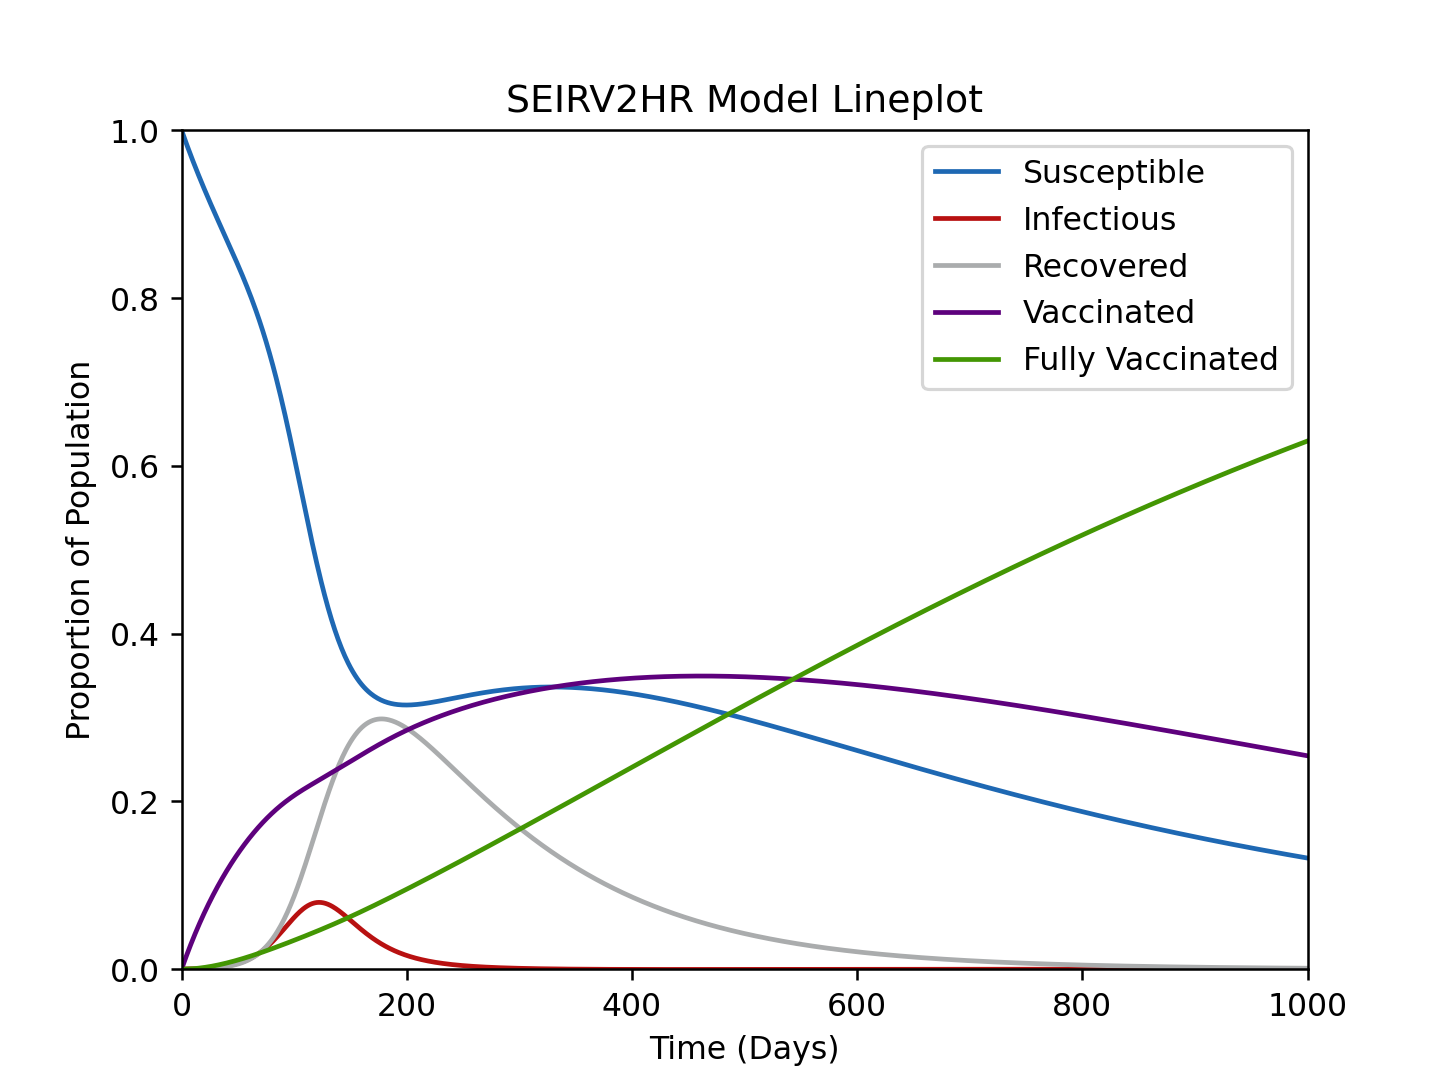
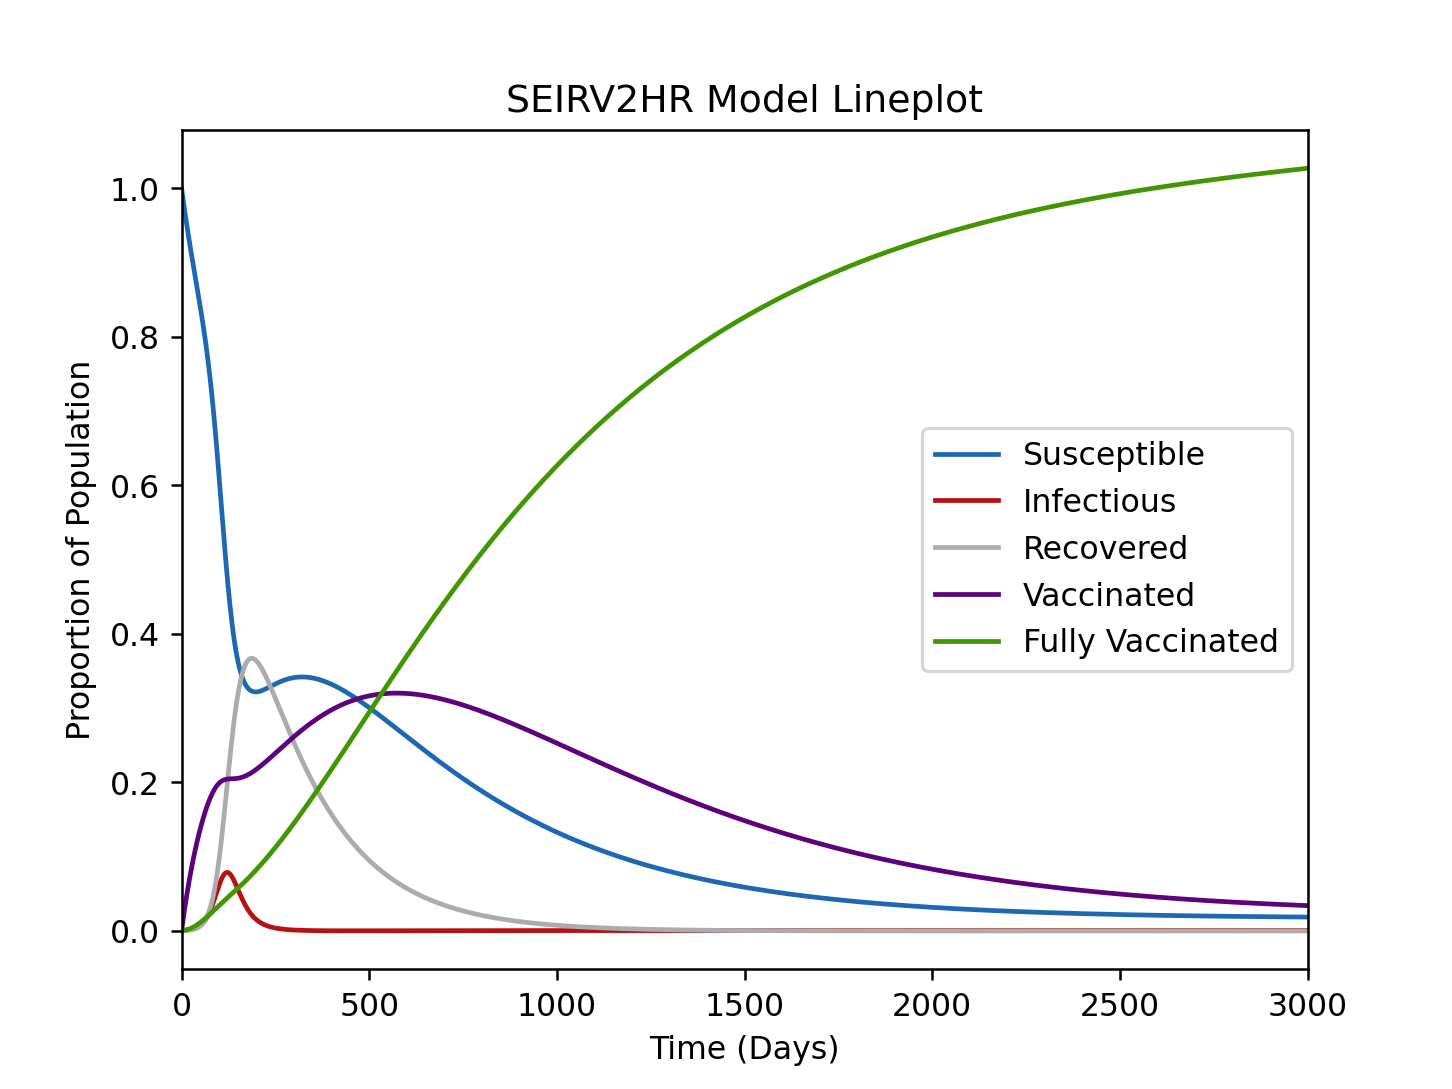
Big model finish

diff --git a/SEIRV2HR/SEIRV2HR_NumInt.py b/SEIRV2HR/SEIRV2HR_NumInt.py
@@ -5,9 +5,8 @@ import matplotlib.pyplot as plt
 class SEIRSV2_Model():
 
     def __init__(self):
-
         
-        self.TotalTime          = 1000 
+        self.TotalTime          = 3000 
         self.dt                 = 1
         self.Iterations         = int(self.TotalTime/self.dt)
         self.PopulationLR       = 0.9
@@ -67,44 +66,46 @@ class SEIRSV2_Model():
             dI = self.LatencyRate*E[n] - self.RecoveryRate*I[n] - self.DeathRateCOVID*I[n]
             dR = self.RecoveryRate*I[n] - self.ImmunityLossRate*R[n] - self.Vaccination1Rate*R[n] - self.DeathRate*R[n]
 
-            dV1 = self.Vaccination1Rate*(S[n] + R[n]) - self.Vaccination2Rate*V1[n] - NewInfectionsV1 + self.RecoveryRate*IV1[n] - self.DeathRate*V1[n]
+            dV1 = self.Vaccination1Rate*S[n] - self.Vaccination2Rate*V1[n] - NewInfectionsV1 - self.DeathRate*V1[n] + self.ImmunityLossRate*RV1[n]
             dEV1 = - self.LatencyRate*EV1[n] + NewInfectionsV1 - self.DeathRate*EV1[n]
             dIV1 = self.LatencyRate*EV1[n] - self.RecoveryRate*IV1[n] - self.DeathRateCOVIDSV*IV1[n]
-            dRV1 = 0
+            dRV1 = self.Vaccination1Rate*R[n] + self.RecoveryRate*IV1[n] - self.ImmunityLossRate*RV1[n] - self.Vaccination2Rate*RV1[n] - self.DeathRate*RV1[n]
 
-            dV2 = self.Vaccination2Rate*V1[n] - NewInfectionsV2 + self.RecoveryRate*IV2[n] - self.DeathRate*V2[n]
+            dV2 = self.Vaccination2Rate*V1[n] - NewInfectionsV2 - self.DeathRate*V2[n] + self.ImmunityLossRate*RV2[n]
             dEV2 = NewInfectionsV2 - self.LatencyRate*EV2[n] - self.DeathRate*EV2[n]
             dIV2 = self.LatencyRate*EV2[n] - self.RecoveryRate*IV2[n] - self.DeathRateCOVIDDV*IV2[n]
-            dRV2 = 0
+            dRV2 = self.Vaccination2Rate*RV1[n] + self.RecoveryRate*IV2[n] - self.ImmunityLossRate*RV2[n] - self.DeathRate*RV2[n]
 
             dSHR = -NewInfectionsHR + self.ImmunityLossRate*RHR[n] - self.Vaccination1HRRate*SHR[n] + self.Population*self.BirthRateHR - self.DeathRate*SHR[n]
             dEHR = NewInfectionsHR - self.LatencyRate*EHR[n] - self.DeathRate*EHR[n]
             dIHR = self.LatencyRate*EHR[n] - self.RecoveryRate*IHR[n] - self.DeathRateCOVIDHR*IHR[n]
             dRHR = -self.ImmunityLossRate*RHR[n] + self.RecoveryRate*IHR[n] - self.Vaccination1HRRate*RHR[n] - self.DeathRate*RHR[n]
 
-            dV1HR = self.Vaccination1HRRate*(SHR[n] + RHR[n]) - self.Vaccination2HRRate*V1HR[n] - NewInfectionsV1HR + self.RecoveryRate*IV1HR[n] - self.DeathRate*V1HR[n]
+            dV1HR = self.Vaccination1HRRate*SHR[n] - self.Vaccination2HRRate*V1HR[n] - NewInfectionsV1HR - self.DeathRate*V1HR[n] + self.ImmunityLossRate*RV1HR[n]
             dEV1HR = NewInfectionsV1HR - self.LatencyRate*EV1HR[n] - self.DeathRate*EV1HR[n]
             dIV1HR = self.LatencyRate*EV1HR[n] - self.RecoveryRate*IV1HR[n] - self.DeathRateCOVIDSVHR*V1HR[n]
-            dRV1HR = 0
+            dRV1HR = self.Vaccination1HRRate*RHR[n] + self.RecoveryRate*IV1HR[n] - self.ImmunityLossRate*RV1HR[n] - self.Vaccination2HRRate*RV1HR[n] - self.DeathRate*RV1HR[n]
 
-            dV2HR = self.Vaccination2HRRate*V1HR[n] - NewInfectionsV2HR + self.RecoveryRate*IV2HR[n] - self.DeathRate*V2HR[n]
+            dV2HR = self.Vaccination2HRRate*V1HR[n] - NewInfectionsV2HR - self.DeathRate*V2HR[n] + self.ImmunityLossRate*RV2HR[n]
             dEV2HR = NewInfectionsV2HR - self.LatencyRate*EV2HR[n] - self.DeathRate*EV2HR[n]
             dIV2HR = self.LatencyRate*EV2HR[n] - self.RecoveryRate*IV2HR[n] - self.DeathRateCOVIDDVHR*IV2HR[n]
-            dRV1HR = 0
+            dRV2HR = self.Vaccination2HRRate*RV1HR[n] + self.RecoveryRate*IV2HR[n] - self.ImmunityLossRate*RV2HR[n] - self.DeathRate*RV2HR[n]
 
-            self.Population += (dS+dE+dI+dR+dV1+dV2+dEV1+dEV2+dIV1+dIV2+dSHR+dEHR+dIHR+dRHR+dV1HR+dEV1HR+dIV1HR+dV2HR+dEV2HR+dIV2HR)*dt
+            self.Population += (dS+dE+dI+dR+dV1+dV2+dEV1+dEV2+dIV1+dIV2+dSHR+dEHR+\
+                                dIHR+dRHR+dV1HR+dEV1HR+dIV1HR+dV2HR+dEV2HR+dIV2HR+\
+                                dRV1+dRV2+dRV1HR+dRV2HR)*dt
 
             S.append(S[n] + dS*dt); E.append(E[n] + dE*dt); I.append(I[n] + dI*dt); R.append(R[n] + dR*dt)
-            V1.append(V1[n] + dV1*dt); EV1.append(EV1[n] + dEV1*dt); IV1.append(IV1[n] + dIV1*dt)
-            V2.append(V2[n] + dV2*dt); EV2.append(EV2[n] + dEV2*dt); IV2.append(IV2[n] + dIV2*dt)
+            V1.append(V1[n] + dV1*dt); EV1.append(EV1[n] + dEV1*dt); IV1.append(IV1[n] + dIV1*dt); RV1.append(RV1[n] + dRV1*dt)
+            V2.append(V2[n] + dV2*dt); EV2.append(EV2[n] + dEV2*dt); IV2.append(IV2[n] + dIV2*dt); RV2.append(RV2[n] + dRV2*dt)
             SHR.append(SHR[n] + dSHR*dt); EHR.append(EHR[n] + dEHR*dt); IHR.append(IHR[n] + dIHR*dt); RHR.append(RHR[n] + dRHR*dt)
-            V1HR.append(V1HR[n] + dV1HR*dt); EV1HR.append(EV1HR[n] + dEV1HR*dt); IV1HR.append(IV1HR[n] + dIV1HR*dt)
-            V2HR.append(V2HR[n] + dV2HR*dt); EV2HR.append(EV2HR[n] + dEV2HR*dt); IV2HR.append(IV2HR[n] + dIV2HR*dt)
+            V1HR.append(V1HR[n] + dV1HR*dt); EV1HR.append(EV1HR[n] + dEV1HR*dt); IV1HR.append(IV1HR[n] + dIV1HR*dt); RV1HR.append(RV1HR[n] + dRV1HR*dt)
+            V2HR.append(V2HR[n] + dV2HR*dt); EV2HR.append(EV2HR[n] + dEV2HR*dt); IV2HR.append(IV2HR[n] + dIV2HR*dt); RV2HR.append(RV2HR[n] + dRV2HR*dt)
 
         SP = np.array(S) + np.array(SHR)
         IP = np.array(I) + np.array(IV1) + np.array(IV2) + np.array(IHR) + np.array(IV1HR) + np.array(IV2HR) +\
              np.array(E) + np.array(EV1) + np.array(EV2) + np.array(EHR) + np.array(EV1HR) + np.array(EV2HR)
-        RP = np.array(R) + np.array(RHR)
+        RP = np.array(R) + np.array(RHR) + np.array(RV1) + np.array(RV2) + np.array(RV1HR) + np.array(RV2HR)
         V1P = np.array(V1) + np.array(V1HR)
         V2P = np.array(V2) + np.array(V2HR)
         
@@ -114,8 +115,7 @@ class SEIRSV2_Model():
         plt.plot(V1P, label = "Vaccinated", c = '#5e017d')
         plt.plot(V2P, label = "Fully Vaccinated", c = '#439603')
 
-        plt.xlim(0,1000)
-        plt.ylim(0,1)
+        plt.xlim(0,self.TotalTime)
         plt.title("SEIRV2HR Model Lineplot")
         plt.xlabel("Time (Days)")
         plt.ylabel("Proportion of Population")
@@ -124,11 +124,10 @@ class SEIRSV2_Model():
         plt.close()
         
         plt.title("SEIRV2HR Model Stackplot")
-        plt.xlim(0,1000)
-        plt.ylim(0,1)
+        plt.xlim(0,self.TotalTime)
         plt.xlabel("Time (Days)")
         plt.ylabel("Proportion of Population")
-        plt.stackplot(range(0,1001),SP,IP,RP,V1P,V2P, labels=["Susceptible","Infectious","Recovered","Vaccinated","Fully Vaccinated"], colors=['#1e68b3','#b81111','#aaacad','#5e017d','#439603'])
+        plt.stackplot(range(0,self.TotalTime+1),SP,IP,RP,V1P,V2P, labels=["Susceptible","Infectious","Recovered","Vaccinated","Fully Vaccinated"], colors=['#1e68b3','#b81111','#aaacad','#5e017d','#439603'])
         plt.savefig("SEIRV2HR_stackplot.png", dpi=227) 
 
 
